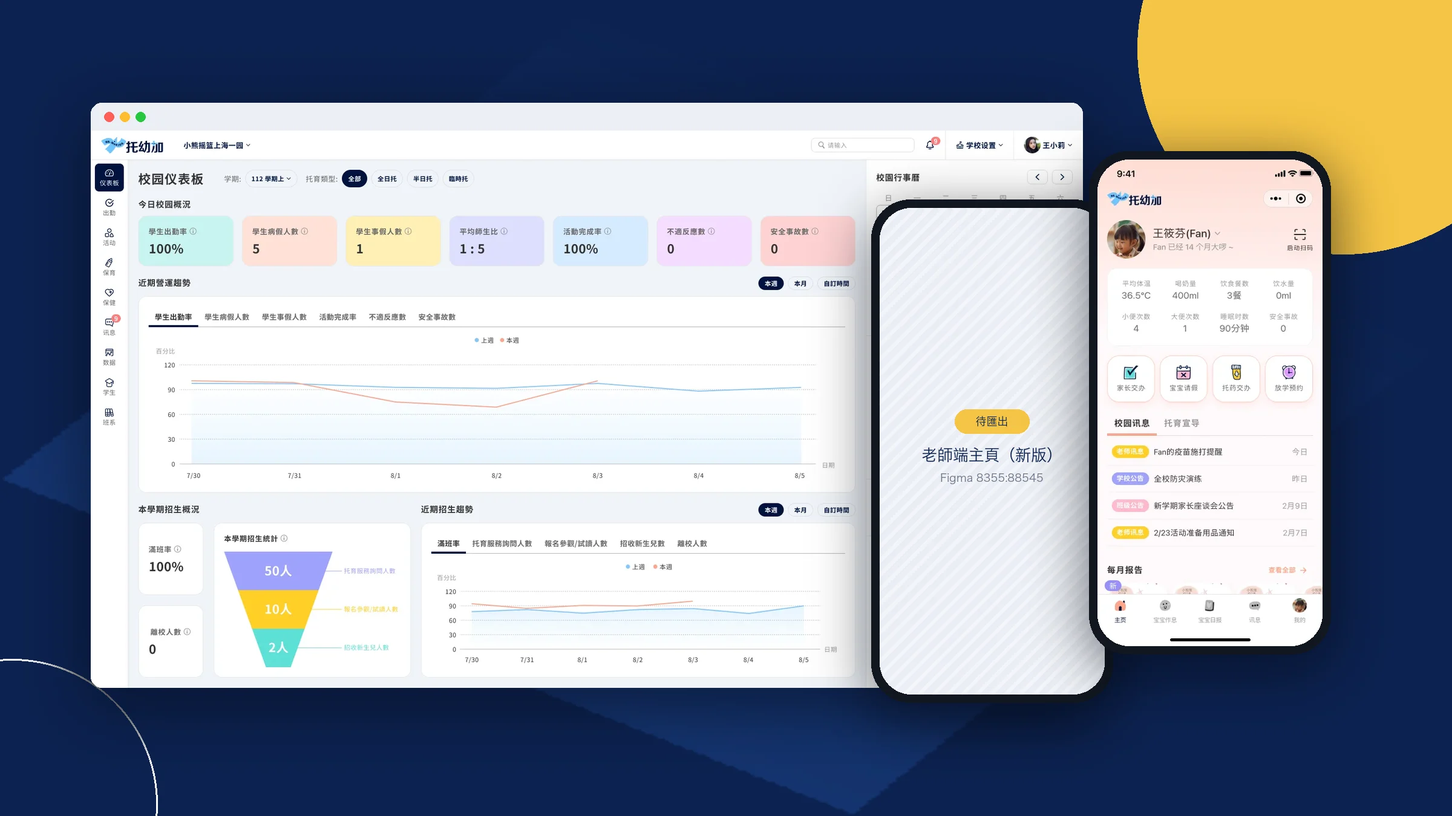
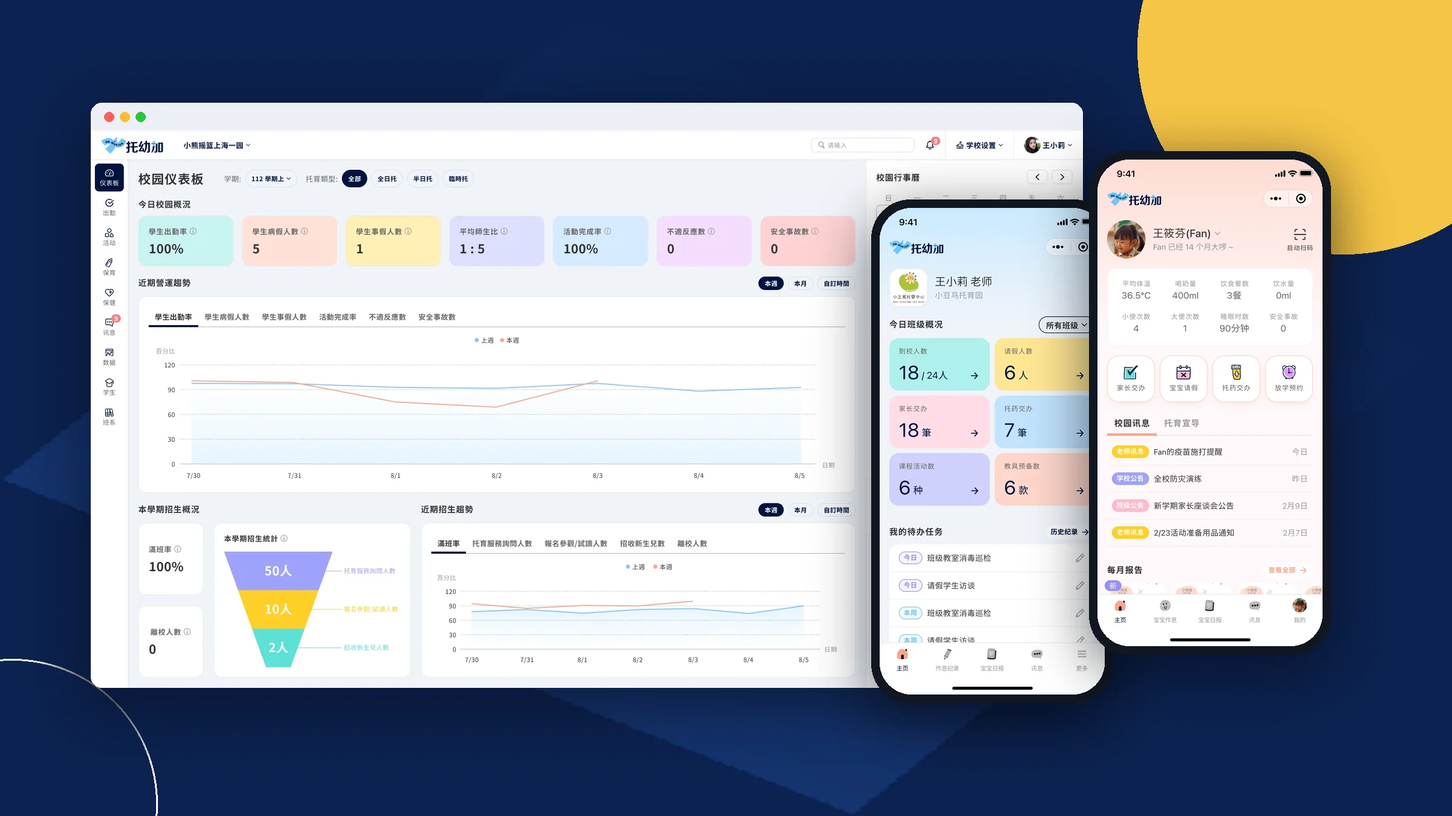
換上 Joseph 匯出的 Figma 圖；新系統三層架構 Sitemap；封面換成新版老師端

Changed region(s): [[0.5938, 0.3422, 0.75, 0.8089], [0.5938, 0.2489, 0.75, 0.3111], [0.6562, 0.84, 0.6875, 0.8711]]

diff --git a/work/tuoyoujia.html b/work/tuoyoujia.html
@@ -36,7 +36,7 @@
         <h1>托幼加：讓 40 間托育機構的每個角色，只看到自己需要的</h1>
         <p class="lead">托幼加是給托育機構用的管理系統。這次 1.0 → 2.0 改版，我從「誰在用、要做什麼」重新整理整個系統，依角色拆分介面與權限，讓管理者、老師、醫護人員和家長各自看到該關注的事。</p>
         <dl class="summary" style="--cols:5"><div><dt>角色</dt><dd>UI / UX Designer<br>團隊唯一設計師</dd></div><div><dt>團隊</dt><dd>PM ×1<br>中國開發團隊</dd></div><div><dt>平台</dt><dd>管理後台 Web<br>老師端・家長端小程序</dd></div><div><dt>期間</dt><dd>2023.10 – 2026.01</dd></div><div class=stat><dt>成果</dt><dd>已上線<br>約 40 間托育機構使用</dd></div></dl>
-        <div class="case-cover"><figure style="margin:0"><button class="zoom" type="button" aria-label="放大檢視：托幼加 2.0 管理後台與兩款小程序"><div class="frame"><img src="../assets/img/tuoyoujia/cover-hero.webp" width="2400" height="1350" alt="托幼加 2.0 管理後台與兩款小程序" fetchpriority="high"></div></button><figcaption>托幼加 2.0：管理後台 Web、老師端與家長端小程序。畫面中皆為 demo 假資料；老師端主頁待從 Figma 匯出後替換。</figcaption></figure></div>
+        <div class="case-cover"><figure style="margin:0"><button class="zoom" type="button" aria-label="放大檢視：托幼加 2.0 管理後台與兩款小程序"><div class="frame"><img src="../assets/img/tuoyoujia/cover-hero.webp" width="2400" height="1350" alt="托幼加 2.0 管理後台與兩款小程序" fetchpriority="high"></div></button><figcaption>托幼加 2.0：管理後台 Web、老師端與家長端小程序。畫面中皆為 demo 假資料。</figcaption></figure></div>
       </header>
     </div>
     <div class="wrap case-layout">
@@ -63,14 +63,14 @@
 <p>我和 PM 先把 1.0 既有的功能逐一梳理，同時訪談既有的使用者：大約 5～6 間園所，主要是園長。再依照訪談結果，逐步定出功能分類、資訊架構，以及每個角色的定位、分層和邊界。角色那麼多，這一段花了非常多時間溝通。</p>
 <h3>先釐清：誰在用、要做什麼</h3>
 <p>改版的第一步，是把每一種使用者的使用目的和使用裝置整理清楚。這決定了後面每個功能該放在哪個平台、給誰看。</p>
-<figure data-figma="152:1276"><button class="zoom" type="button" aria-label="放大檢視：使用者類型與使用目的"><div class="frame"><span class="badge-export">預覽圖・待匯出高解析</span><img src="../assets/img/tuoyoujia/roles.webp" width="1020" height="1439" alt="使用者類型與使用目的" loading="lazy"></div></button><figcaption>整理出 6 種使用者的使用目的與裝置：管理者主要用電腦，主管、老師、行政電腦手機都會用，家長只用手機。</figcaption></figure>
+<figure><button class="zoom" type="button" aria-label="放大檢視：使用者類型與使用目的"><div class="frame"><img src="../assets/img/tuoyoujia/roles.webp" width="1417" height="2000" alt="使用者類型與使用目的" loading="lazy"></div></button><figcaption>整理出 6 種使用者的使用目的與裝置：管理者主要用電腦，主管、老師、行政電腦手機都會用，家長只用手機。</figcaption></figure>
 <h3>關鍵決策①：把好學定位成「系統平台商」</h3>
 <p>權限最難切的，是自家園所、非自家園所和集團之間的關係。討論到最後，我們認為它們其實都只是「服務的單位」：把好學的角色提升為<strong>系統平台商</strong>，不管是不是集團裡的園所，都是平台的客戶。</p>
 <div class="callout"><p>用「平台商與客戶」的關係去切分權限和管理，原本糾纏在一起的角色，一下子單純多了。</p></div>
 <p>當時其實找不到可以參考的做法：同樣是集團等級、自己開發系統，又要同時服務自家和外部園所的案例，我們沒有找到。</p>
 <h3>重新規劃 2.0 架構</h3>
-<p>根據使用者類型重新規劃 2.0 的網站架構，再分別整理每種角色看得到的功能範圍。權限分清楚之後，每個人打開系統只會看到跟自己有關的內容。</p>
-<figure data-figma="150:2316"><button class="zoom" type="button" aria-label="放大檢視：托幼加 2.0 網站架構圖"><div class="frame tall"><span class="badge-export">預覽圖・待匯出高解析</span><img src="../assets/img/tuoyoujia/sitemap.webp" width="768" height="2276" alt="托幼加 2.0 網站架構圖" loading="lazy"><span class="more">點擊看完整圖</span></div></button><figcaption>2.0 網站架構（點擊看完整架構）。</figcaption></figure>
+<p>依照「平台商與客戶」的關係，新系統拆成三個後台，再加上老師端與家長端小程序。每一層只管自己該管的事，權限的邊界就清楚了。</p>
+<figure class="tiers-fig"><div class="tiers"><div class="tier"><div class="tier-head"><span class="tier-n">第 1 層</span><b>系統管理員後台</b><span class="tier-who">平台方（好學）</span></div><p>管理平台底下所有機構單位的帳號，以及平台提供給機構的教學課程內容與資源。</p><ul class="chips"><li>機構與帳號管理</li><li>教學課程內容</li><li>教學資源</li></ul></div><div class="tier"><div class="tier-head"><span class="tier-n">第 2 層</span><b>機構方管理介面</b><span class="tier-who">管理一間或多間園所的機構</span></div><p>掌握旗下每間園所的狀態和各項事務，做綜效評估，讓更多人一起檢核各園所的經營狀況。</p><ul class="chips"><li>各園所狀態總覽</li><li>綜效評估</li><li>經營狀況檢核</li></ul></div><div class="tier main"><div class="tier-head"><span class="tier-n">第 3 層</span><b>單一園所平台：托幼加</b><span class="tier-who">園所主管、老師、醫護、行政</span></div><p>處理園所內部的人、事、物，以及孩子和老師的日常行政，同時是孩子、學校與家長之間的溝通管道。</p><ul class="chips"><li>儀表板</li><li>出勤</li><li>保育</li><li>保健</li><li>教學課表・排課</li><li>訊息</li><li>數據</li><li>學生</li><li>學校設置</li></ul><div class="tier-sub"><div><b>老師端小程序</b><ul class="chips"><li>主頁</li><li>作息紀錄</li><li>寶寶日報</li><li>訊息</li><li>更多</li></ul></div><div><b>家長端小程序</b><ul class="chips"><li>主頁</li><li>寶寶作息</li><li>寶寶日報</li><li>訊息</li><li>我的</li></ul></div></div></div></div><figcaption>新系統架構：三層後台，加上老師端與家長端小程序。</figcaption></figure>
 <h3>關鍵決策②：一個總覽儀表板，加上各角色的小儀表板</h3>
 <p>中國托育機構的分工非常細，和台灣差很多，但系統也要讓台灣的園所使用。不同的人代表不同的工作內容，所以我們把工作內容拆開：<strong>一個大的儀表板關注整體</strong>，再由<strong>不同的小儀表板</strong>關注各自負責的事。</p>
 <p>校方管理者、班級、老師、醫護人員，各自看到自己需要關注的指標和待辦。切換看看：</p>
@@ -83,7 +83,7 @@
 <figure><button class="zoom" type="button" aria-label="放大檢視：學生列表批次處理"><div class="frame"><img src="../assets/img/tuoyoujia/batch.webp" width="1920" height="1080" alt="學生列表批次處理" loading="lazy"></div></button><figcaption>學生列表的批次處理：勾選多位學生後一次變更（例如變更為畢業）。</figcaption></figure>
 <h3>小程序與教室觸控大屏</h3>
 <p>小程序是這次改動最大的部分。老師和家長打開第一屏就看到最重要的資訊，常用功能則集中到常用工作列。網頁版也會放到教室的大型觸控螢幕上，讓老師直接在大屏上做保育和教學紀錄。</p>
-<div class="phones"><figure data-figma="8355:88545"><div class="frame placeholder" style="--ar:375 / 812"><span class="tag">待匯出</span><b>老師端小程序主頁（新版）</b><span>Figma 節點 8355:88545</span></div><figcaption>老師端：今日班級概況與待辦</figcaption></figure><figure data-figma="9262:94649"><button class="zoom" type="button" aria-label="放大檢視：家長端小程序主頁"><div class="frame"><span class="badge-export">預覽圖・待匯出高解析</span><img src="../assets/img/tuoyoujia/app-parent.webp" width="375" height="812" alt="家長端小程序主頁" loading="lazy"></div></button><figcaption>家長端：寶寶今日保育總結</figcaption></figure></div>
+<div class="phones"><figure><button class="zoom" type="button" aria-label="放大檢視：老師端小程序主頁"><div class="frame"><img src="../assets/img/tuoyoujia/app-teacher-new.webp" width="750" height="1624" alt="老師端小程序主頁" loading="lazy"></div></button><figcaption>老師端：今日班級概況與待辦</figcaption></figure><figure><button class="zoom" type="button" aria-label="放大檢視：家長端小程序主頁"><div class="frame"><img src="../assets/img/tuoyoujia/app-parent.webp" width="750" height="1624" alt="家長端小程序主頁" loading="lazy"></div></button><figcaption>家長端：寶寶今日保育總結</figcaption></figure></div>
 <div class="next-grid"><a class="next-card" href="tuoyoujia-app.html"><b>看小程序與觸控大屏的設計 →</b><span>延伸案例</span></a></div>
 </section><section id="result"><h2><span class="num">04</span>結果</h2>
 <div class="outcome"><div class="big">40<small>間</small></div><div><p><strong>2.0 已上線，約 40 間托育機構在使用。</strong>從使用者的問題回饋和老師的反應來看：</p>

diff --git a/work/tuoyoujia-app.html b/work/tuoyoujia-app.html
@@ -46,28 +46,26 @@
 <p>不管是老師或家長，打開小程序的第一屏就看到最重要的資訊，再把常用功能集中到常用工作列。</p>
 <p>另外，網頁版會放到教室的大型觸控螢幕上。目標是讓介面在大屏上也好點、好操作，老師可以直接在上面做保育和教學紀錄。</p>
 </section><section id="challenge"><h2><span class="num">02</span>困難</h2>
-<p>舊版的老師端、家長端 App，在設計檔中都被標為「須重新規劃」。</p>
-<div class="phones"><figure data-figma="5440:24620"><button class="zoom" type="button" aria-label="放大檢視：舊版老師端小程序首頁"><div class="frame"><span class="badge-export">預覽圖・待匯出高解析</span><img src="../assets/img/tuoyoujia/app-teacher.webp" width="375" height="812" alt="舊版老師端小程序首頁" loading="lazy"></div></button><figcaption>舊版老師端首頁（須重新規劃）</figcaption></figure></div>
 <ul><li>老師一天要處理出勤、保育、托藥、家長交辦等許多工作，手機上要能快速找到今天該做的事。</li><li>家長最關心的是孩子今天過得好不好，還有要交辦給學校的事。</li><li>網頁介面原本是為滑鼠操作設計的，放到教室大屏上，要能直接用手指點選操作。</li></ul>
 <p class="todo">舊版 App 實際遇到的問題（例如：老師找不到功能、家長看不到重點、使用者的抱怨）。</p>
 </section><section id="process"><h2><span class="num">03</span>過程</h2>
 <h3>依「使用頻率 × 重要度」決定畫面放什麼</h3>
 <p>先把老師端的功能依「使用頻率高／低」和「每日重要度高／低」分類，再決定哪些放在首屏、哪些放進常用工作列或「更多」。</p>
-<figure data-figma="8355:102128"><div class="frame placeholder" style="--ar:5435 / 1941"><span class="tag">待匯出</span><b>老師端功能分類：使用頻率 × 每日重要度</b><span>Figma 節點 8355:102128</span></div><figcaption>依使用頻率與重要度分類功能。</figcaption></figure>
+<figure><button class="zoom" type="button" aria-label="放大檢視：老師端功能分類矩陣與架構"><div class="frame"><img src="../assets/img/tuoyoujia/app-priority.webp" width="2000" height="714" alt="老師端功能分類矩陣與架構" loading="lazy"></div></button><figcaption>左：老師端功能依「使用頻率 × 每日重要度」分類；右：依分類結果整理出的老師端架構。</figcaption></figure>
 <h3>老師端：今日班級概況與待辦</h3>
 <p>首屏是「今日班級概況」：到校人數、請假人數、家長交辦、托藥交辦、課程活動數、教具預備數。下面接著「我的待辦任務」和「我的待審核項目」（寶寶日報、寶寶月報、成長故事）。</p>
-<div class="phones"><figure data-figma="8355:88545"><div class="frame placeholder" style="--ar:375 / 812"><span class="tag">待匯出</span><b>老師端主頁（新版）</b><span>Figma 節點 8355:88545</span></div><figcaption>老師端主頁</figcaption></figure></div>
+<div class="phones"><figure><button class="zoom" type="button" aria-label="放大檢視：老師端小程序主頁完整頁面"><div class="frame"><img src="../assets/img/tuoyoujia/app-teacher-full.webp" width="723" height="2000" alt="老師端小程序主頁完整頁面" loading="lazy"></div></button><figcaption>老師端主頁（完整頁面）</figcaption></figure></div>
 <h3>家長端：寶寶今天過得好不好，一眼看到</h3>
 <p>首屏是寶寶的「今日保育總結」：平均體溫、喝奶量、飲食餐數、飲水量、大小便次數、睡眠時數、安全事故。下面是四個常用交辦：家長交辦、寶寶請假、托藥交辦、放學預約，再往下是校園訊息、每月報告和成長故事。</p>
-<div class="phones"><figure data-figma="9262:94649"><button class="zoom" type="button" aria-label="放大檢視：家長端小程序主頁"><div class="frame"><span class="badge-export">預覽圖・待匯出高解析</span><img src="../assets/img/tuoyoujia/app-parent.webp" width="375" height="812" alt="家長端小程序主頁" loading="lazy"></div></button><figcaption>家長端主頁</figcaption></figure></div>
+<div class="phones"><figure><button class="zoom" type="button" aria-label="放大檢視：家長端小程序主頁"><div class="frame"><img src="../assets/img/tuoyoujia/app-parent.webp" width="750" height="1624" alt="家長端小程序主頁" loading="lazy"></div></button><figcaption>家長端主頁</figcaption></figure></div>
 <h3>常用工作列</h3>
 <p>最常用的功能固定在底部工作列：老師端是「主頁、作息紀錄、訊息、更多」，家長端是「主頁、寶寶作息、寶寶日報、訊息、我的」。</p>
 <h3>寶寶日報與家長留言</h3>
 <p>老師記錄寶寶一天的進食、睡眠、活動參與和排便狀況，加上觀察建議、給家長的話和叮嚀；家長可以直接在日報下留言，老師再回覆。</p>
-<div class="phones"><figure data-figma="8464:9194"><div class="frame placeholder" style="--ar:375 / 812"><span class="tag">待匯出</span><b>寶寶日報詳情</b><span>Figma 節點 8464:9194</span></div><figcaption>寶寶日報</figcaption></figure></div>
+<div class="phones"><figure><button class="zoom" type="button" aria-label="放大檢視：寶寶日報詳情上半部"><div class="frame"><img src="../assets/img/tuoyoujia/app-report-1.webp" width="750" height="1624" alt="寶寶日報詳情上半部" loading="lazy"></div></button><figcaption>日報：進食與睡眠</figcaption></figure><figure><button class="zoom" type="button" aria-label="放大檢視：寶寶日報詳情下半部"><div class="frame"><img src="../assets/img/tuoyoujia/app-report-2.webp" width="750" height="1624" alt="寶寶日報詳情下半部" loading="lazy"></div></button><figcaption>日報：給家長的話與老師叮嚀</figcaption></figure></div>
 <h3>發布動態，可以設定誰看得到</h3>
 <p>老師發布動態時，可以選擇瀏覽權限：全校、自訂班級，或自訂學生。</p>
-<figure data-figma="8428:99009"><div class="frame placeholder" style="--ar:720 / 364"><span class="tag">待匯出</span><b>動態瀏覽權限設定</b><span>Figma 節點 8428:99009</span></div><figcaption>瀏覽權限：全校／自訂班級／自訂學生。</figcaption></figure>
+<figure><button class="zoom" type="button" aria-label="放大檢視：動態瀏覽權限設定"><div class="frame"><img src="../assets/img/tuoyoujia/app-permission.webp" width="1440" height="728" alt="動態瀏覽權限設定" loading="lazy"></div></button><figcaption>瀏覽權限：全校／自訂班級／自訂學生。</figcaption></figure>
 <h3>教室觸控大屏</h3>
 <figure data-figma="（待提供）"><div class="frame placeholder" style="--ar:16 / 9"><span class="tag">待匯出</span><b>教室觸控大屏畫面</b><span>Figma 節點 （待提供）</span></div><figcaption>老師在大屏上做保育與教學紀錄。</figcaption></figure>
 <p class="todo">大屏的設計細節：點擊區域怎麼調整、哪些畫面會放到大屏、老師實際怎麼使用。</p>

diff --git a/assets/css/site.css b/assets/css/site.css
@@ -327,3 +327,23 @@ dialog.lightbox p { color: rgba(255, 255, 255, .85); font-size: 14px; text-align
   .ba-at { margin-top: 12px; }
   .ba-extra { grid-template-columns: 1fr; gap: 0; }
 }
+
+/* Layered sitemap (tiers) */
+.tiers { display: grid; gap: 28px; }
+.tier { background: var(--surface); border: 1px solid var(--line); border-radius: var(--radius); padding: 20px 22px; position: relative; box-shadow: var(--shadow); }
+.tier + .tier::before { content: ""; position: absolute; left: 40px; top: -29px; height: 28px; border-left: 2px dashed #b4c0d8; }
+.tier + .tier::after { content: ""; position: absolute; left: 35px; top: -8px; border: 6px solid transparent; border-top-color: #b4c0d8; }
+.tier.main { border: 2px solid var(--navy); }
+.tier-head { display: flex; flex-wrap: wrap; align-items: baseline; gap: 6px 12px; margin-bottom: 6px; }
+.tier-n { font-size: 12px; font-weight: 700; background: var(--navy); color: #fff; border-radius: 999px; padding: 2px 10px; }
+.tier.main .tier-n { background: var(--yellow); color: var(--navy-deep); }
+.tier-head b { font-size: 18px; color: var(--navy-deep); }
+.tier-who { font-size: 14px; color: var(--muted); }
+.prose .tier p { font-size: 15.5px; margin: 0 0 12px; }
+.chips { list-style: none; margin: 0; padding: 0 !important; display: flex; flex-wrap: wrap; gap: 6px; }
+.prose .chips li { font-size: 13.5px; background: var(--bg-alt); border-radius: 8px; padding: 4px 10px; margin: 0; color: var(--ink-2); }
+.tier-sub { display: grid; grid-template-columns: 1fr 1fr; gap: 12px; margin-top: 16px; }
+.tier-sub > div { background: var(--navy-soft); border-radius: 12px; padding: 14px 16px; }
+.tier-sub b { display: block; color: var(--navy-deep); font-size: 15px; margin-bottom: 8px; }
+.prose .tier-sub .chips li { background: #fff; }
+@media (max-width: 640px) { .tier-sub { grid-template-columns: 1fr; } }

diff --git a/_tools/content.py b/_tools/content.py
@@ -32,7 +32,7 @@ CASES.append(dict(
     summary=[("角色", "UI / UX Designer<br>團隊唯一設計師"), ("團隊", "PM ×1<br>中國開發團隊"),
              ("平台", "管理後台 Web<br>老師端・家長端小程序"), ("期間", "2023.10 – 2026.01"),
              ("成果", "已上線<br>約 40 間托育機構使用", True)],
-    cover=F(Y + "cover-hero.webp", "托幼加 2.0：管理後台 Web、老師端與家長端小程序。畫面中皆為 demo 假資料；老師端主頁待從 Figma 匯出後替換。",
+    cover=F(Y + "cover-hero.webp", "托幼加 2.0：管理後台 Web、老師端與家長端小程序。畫面中皆為 demo 假資料。",
             alt="托幼加 2.0 管理後台與兩款小程序"),
     og=Y + "cover-hero.webp",
     sections=[
@@ -72,14 +72,26 @@ CASES.append(dict(
             ("h3", "先釐清：誰在用、要做什麼"),
             ("p", "改版的第一步，是把每一種使用者的使用目的和使用裝置整理清楚。這決定了後面每個功能該放在哪個平台、給誰看。"),
             ("fig", F(Y + "roles.webp", "整理出 6 種使用者的使用目的與裝置：管理者主要用電腦，主管、老師、行政電腦手機都會用，家長只用手機。",
-                      alt="使用者類型與使用目的", lowres="152:1276")),
+                      alt="使用者類型與使用目的")),
             ("h3", "關鍵決策①：把好學定位成「系統平台商」"),
             ("p", "權限最難切的，是自家園所、非自家園所和集團之間的關係。討論到最後，我們認為它們其實都只是「服務的單位」：把好學的角色提升為<strong>系統平台商</strong>，不管是不是集團裡的園所，都是平台的客戶。"),
             ("callout", "用「平台商與客戶」的關係去切分權限和管理，原本糾纏在一起的角色，一下子單純多了。"),
             ("p", "當時其實找不到可以參考的做法：同樣是集團等級、自己開發系統，又要同時服務自家和外部園所的案例，我們沒有找到。"),
             ("h3", "重新規劃 2.0 架構"),
-            ("p", "根據使用者類型重新規劃 2.0 的網站架構，再分別整理每種角色看得到的功能範圍。權限分清楚之後，每個人打開系統只會看到跟自己有關的內容。"),
-            ("fig", F(Y + "sitemap.webp", "2.0 網站架構（點擊看完整架構）。", alt="托幼加 2.0 網站架構圖", lowres="150:2316", tall=True)),
+            ("p", "依照「平台商與客戶」的關係，新系統拆成三個後台，再加上老師端與家長端小程序。每一層只管自己該管的事，權限的邊界就清楚了。"),
+            ("tiers", [
+                dict(n="第 1 層", title="系統管理員後台", who="平台方（好學）",
+                     desc="管理平台底下所有機構單位的帳號，以及平台提供給機構的教學課程內容與資源。",
+                     chips=["機構與帳號管理", "教學課程內容", "教學資源"]),
+                dict(n="第 2 層", title="機構方管理介面", who="管理一間或多間園所的機構",
+                     desc="掌握旗下每間園所的狀態和各項事務，做綜效評估，讓更多人一起檢核各園所的經營狀況。",
+                     chips=["各園所狀態總覽", "綜效評估", "經營狀況檢核"]),
+                dict(n="第 3 層", title="單一園所平台：托幼加", who="園所主管、老師、醫護、行政", main=True,
+                     desc="處理園所內部的人、事、物，以及孩子和老師的日常行政，同時是孩子、學校與家長之間的溝通管道。",
+                     chips=["儀表板", "出勤", "保育", "保健", "教學課表・排課", "訊息", "數據", "學生", "學校設置"],
+                     sub=[("老師端小程序", ["主頁", "作息紀錄", "寶寶日報", "訊息", "更多"]),
+                          ("家長端小程序", ["主頁", "寶寶作息", "寶寶日報", "訊息", "我的"])]),
+            ], "新系統架構：三層後台，加上老師端與家長端小程序。"),
             ("h3", "關鍵決策②：一個總覽儀表板，加上各角色的小儀表板"),
             ("p", "中國托育機構的分工非常細，和台灣差很多，但系統也要讓台灣的園所使用。不同的人代表不同的工作內容，所以我們把工作內容拆開：<strong>一個大的儀表板關注整體</strong>，再由<strong>不同的小儀表板</strong>關注各自負責的事。"),
             ("p", "校方管理者、班級、老師、醫護人員，各自看到自己需要關注的指標和待辦。切換看看："),
@@ -102,8 +114,8 @@ CASES.append(dict(
             ("fig", F(Y + "batch.webp", "學生列表的批次處理：勾選多位學生後一次變更（例如變更為畢業）。", alt="學生列表批次處理")),
             ("h3", "小程序與教室觸控大屏"),
             ("p", "小程序是這次改動最大的部分。老師和家長打開第一屏就看到最重要的資訊，常用功能則集中到常用工作列。網頁版也會放到教室的大型觸控螢幕上，讓老師直接在大屏上做保育和教學紀錄。"),
-            ("phones", [PEND("8355:88545", "老師端小程序主頁（新版）", "老師端：今日班級概況與待辦", ar="375 / 812"),
-                        F(Y + "app-parent.webp", "家長端：寶寶今日保育總結", alt="家長端小程序主頁", lowres="9262:94649")]),
+            ("phones", [F(Y + "app-teacher-new.webp", "老師端：今日班級概況與待辦", alt="老師端小程序主頁"),
+                        F(Y + "app-parent.webp", "家長端：寶寶今日保育總結", alt="家長端小程序主頁")]),
             ("links", [dict(href="tuoyoujia-app.html", title="看小程序與觸控大屏的設計 →", sub="延伸案例")]),
         ]),
         ("result", [
@@ -151,8 +163,6 @@ CASES.append(dict(
             ("p", "另外，網頁版會放到教室的大型觸控螢幕上。目標是讓介面在大屏上也好點、好操作，老師可以直接在上面做保育和教學紀錄。"),
         ]),
         ("challenge", [
-            ("p", "舊版的老師端、家長端 App，在設計檔中都被標為「須重新規劃」。"),
-            ("phones", [F(Y + "app-teacher.webp", "舊版老師端首頁（須重新規劃）", alt="舊版老師端小程序首頁", lowres="5440:24620")]),
             ("ul", ["老師一天要處理出勤、保育、托藥、家長交辦等許多工作，手機上要能快速找到今天該做的事。",
                     "家長最關心的是孩子今天過得好不好，還有要交辦給學校的事。",
                     "網頁介面原本是為滑鼠操作設計的，放到教室大屏上，要能直接用手指點選操作。"]),
@@ -161,21 +171,22 @@ CASES.append(dict(
         ("process", [
             ("h3", "依「使用頻率 × 重要度」決定畫面放什麼"),
             ("p", "先把老師端的功能依「使用頻率高／低」和「每日重要度高／低」分類，再決定哪些放在首屏、哪些放進常用工作列或「更多」。"),
-            ("fig", PEND("8355:102128", "老師端功能分類：使用頻率 × 每日重要度", "依使用頻率與重要度分類功能。", ar="5435 / 1941")),
+            ("fig", F(Y + "app-priority.webp", "左：老師端功能依「使用頻率 × 每日重要度」分類；右：依分類結果整理出的老師端架構。", alt="老師端功能分類矩陣與架構")),
             ("h3", "老師端：今日班級概況與待辦"),
             ("p", "首屏是「今日班級概況」：到校人數、請假人數、家長交辦、托藥交辦、課程活動數、教具預備數。下面接著「我的待辦任務」和「我的待審核項目」（寶寶日報、寶寶月報、成長故事）。"),
-            ("phones", [PEND("8355:88545", "老師端主頁（新版）", "老師端主頁", ar="375 / 812")]),
+            ("phones", [F(Y + "app-teacher-full.webp", "老師端主頁（完整頁面）", alt="老師端小程序主頁完整頁面")]),
             ("h3", "家長端：寶寶今天過得好不好，一眼看到"),
             ("p", "首屏是寶寶的「今日保育總結」：平均體溫、喝奶量、飲食餐數、飲水量、大小便次數、睡眠時數、安全事故。下面是四個常用交辦：家長交辦、寶寶請假、托藥交辦、放學預約，再往下是校園訊息、每月報告和成長故事。"),
-            ("phones", [F(Y + "app-parent.webp", "家長端主頁", alt="家長端小程序主頁", lowres="9262:94649")]),
+            ("phones", [F(Y + "app-parent.webp", "家長端主頁", alt="家長端小程序主頁")]),
             ("h3", "常用工作列"),
             ("p", "最常用的功能固定在底部工作列：老師端是「主頁、作息紀錄、訊息、更多」，家長端是「主頁、寶寶作息、寶寶日報、訊息、我的」。"),
             ("h3", "寶寶日報與家長留言"),
             ("p", "老師記錄寶寶一天的進食、睡眠、活動參與和排便狀況，加上觀察建議、給家長的話和叮嚀；家長可以直接在日報下留言，老師再回覆。"),
-            ("phones", [PEND("8464:9194", "寶寶日報詳情", "寶寶日報", ar="375 / 812")]),
+            ("phones", [F(Y + "app-report-1.webp", "日報：進食與睡眠", alt="寶寶日報詳情上半部"),
+                        F(Y + "app-report-2.webp", "日報：給家長的話與老師叮嚀", alt="寶寶日報詳情下半部")]),
             ("h3", "發布動態，可以設定誰看得到"),
             ("p", "老師發布動態時，可以選擇瀏覽權限：全校、自訂班級，或自訂學生。"),
-            ("fig", PEND("8428:99009", "動態瀏覽權限設定", "瀏覽權限：全校／自訂班級／自訂學生。", ar="720 / 364")),
+            ("fig", F(Y + "app-permission.webp", "瀏覽權限：全校／自訂班級／自訂學生。", alt="動態瀏覽權限設定")),
             ("h3", "教室觸控大屏"),
             ("fig", PEND("（待提供）", "教室觸控大屏畫面", "老師在大屏上做保育與教學紀錄。")),
             ("todo", "大屏的設計細節：點擊區域怎麼調整、哪些畫面會放到大屏、老師實際怎麼使用。"),

diff --git a/_tools/build.py b/_tools/build.py
@@ -121,6 +121,22 @@ def render(blocks, slug):
                     f'<div class="ba-bf">{fig(bfig, slug)}</div><div class="ba-af">{fig(afig, slug)}</div>'
                     f'</div>{more}</div>')
             out.append('<div class="ba">' + "".join(rows) + "</div>")
+        elif kind == "tiers":
+            # Layered sitemap drawn in HTML: one card per tier, optional sub-apps.
+            cards = []
+            for t in b[1]:
+                chips = "".join(f"<li>{c}</li>" for c in t["chips"])
+                sub = ""
+                if t.get("sub"):
+                    sub = '<div class="tier-sub">' + "".join(
+                        f'<div><b>{st}</b><ul class="chips">{"".join(f"<li>{c}</li>" for c in sc)}</ul></div>'
+                        for st, sc in t["sub"]) + "</div>"
+                cls = "tier main" if t.get("main") else "tier"
+                cards.append(f'<div class="{cls}"><div class="tier-head"><span class="tier-n">{t["n"]}</span>'
+                             f'<b>{t["title"]}</b><span class="tier-who">{t["who"]}</span></div>'
+                             f'<p>{t["desc"]}</p><ul class="chips">{chips}</ul>{sub}</div>')
+            cap = f"<figcaption>{b[2]}</figcaption>" if len(b) > 2 else ""
+            out.append(f'<figure class="tiers-fig"><div class="tiers">{"".join(cards)}</div>{cap}</figure>')
         elif kind == "tabs":
             tabs, panels = [], []
             for i, t in enumerate(b[1]):
